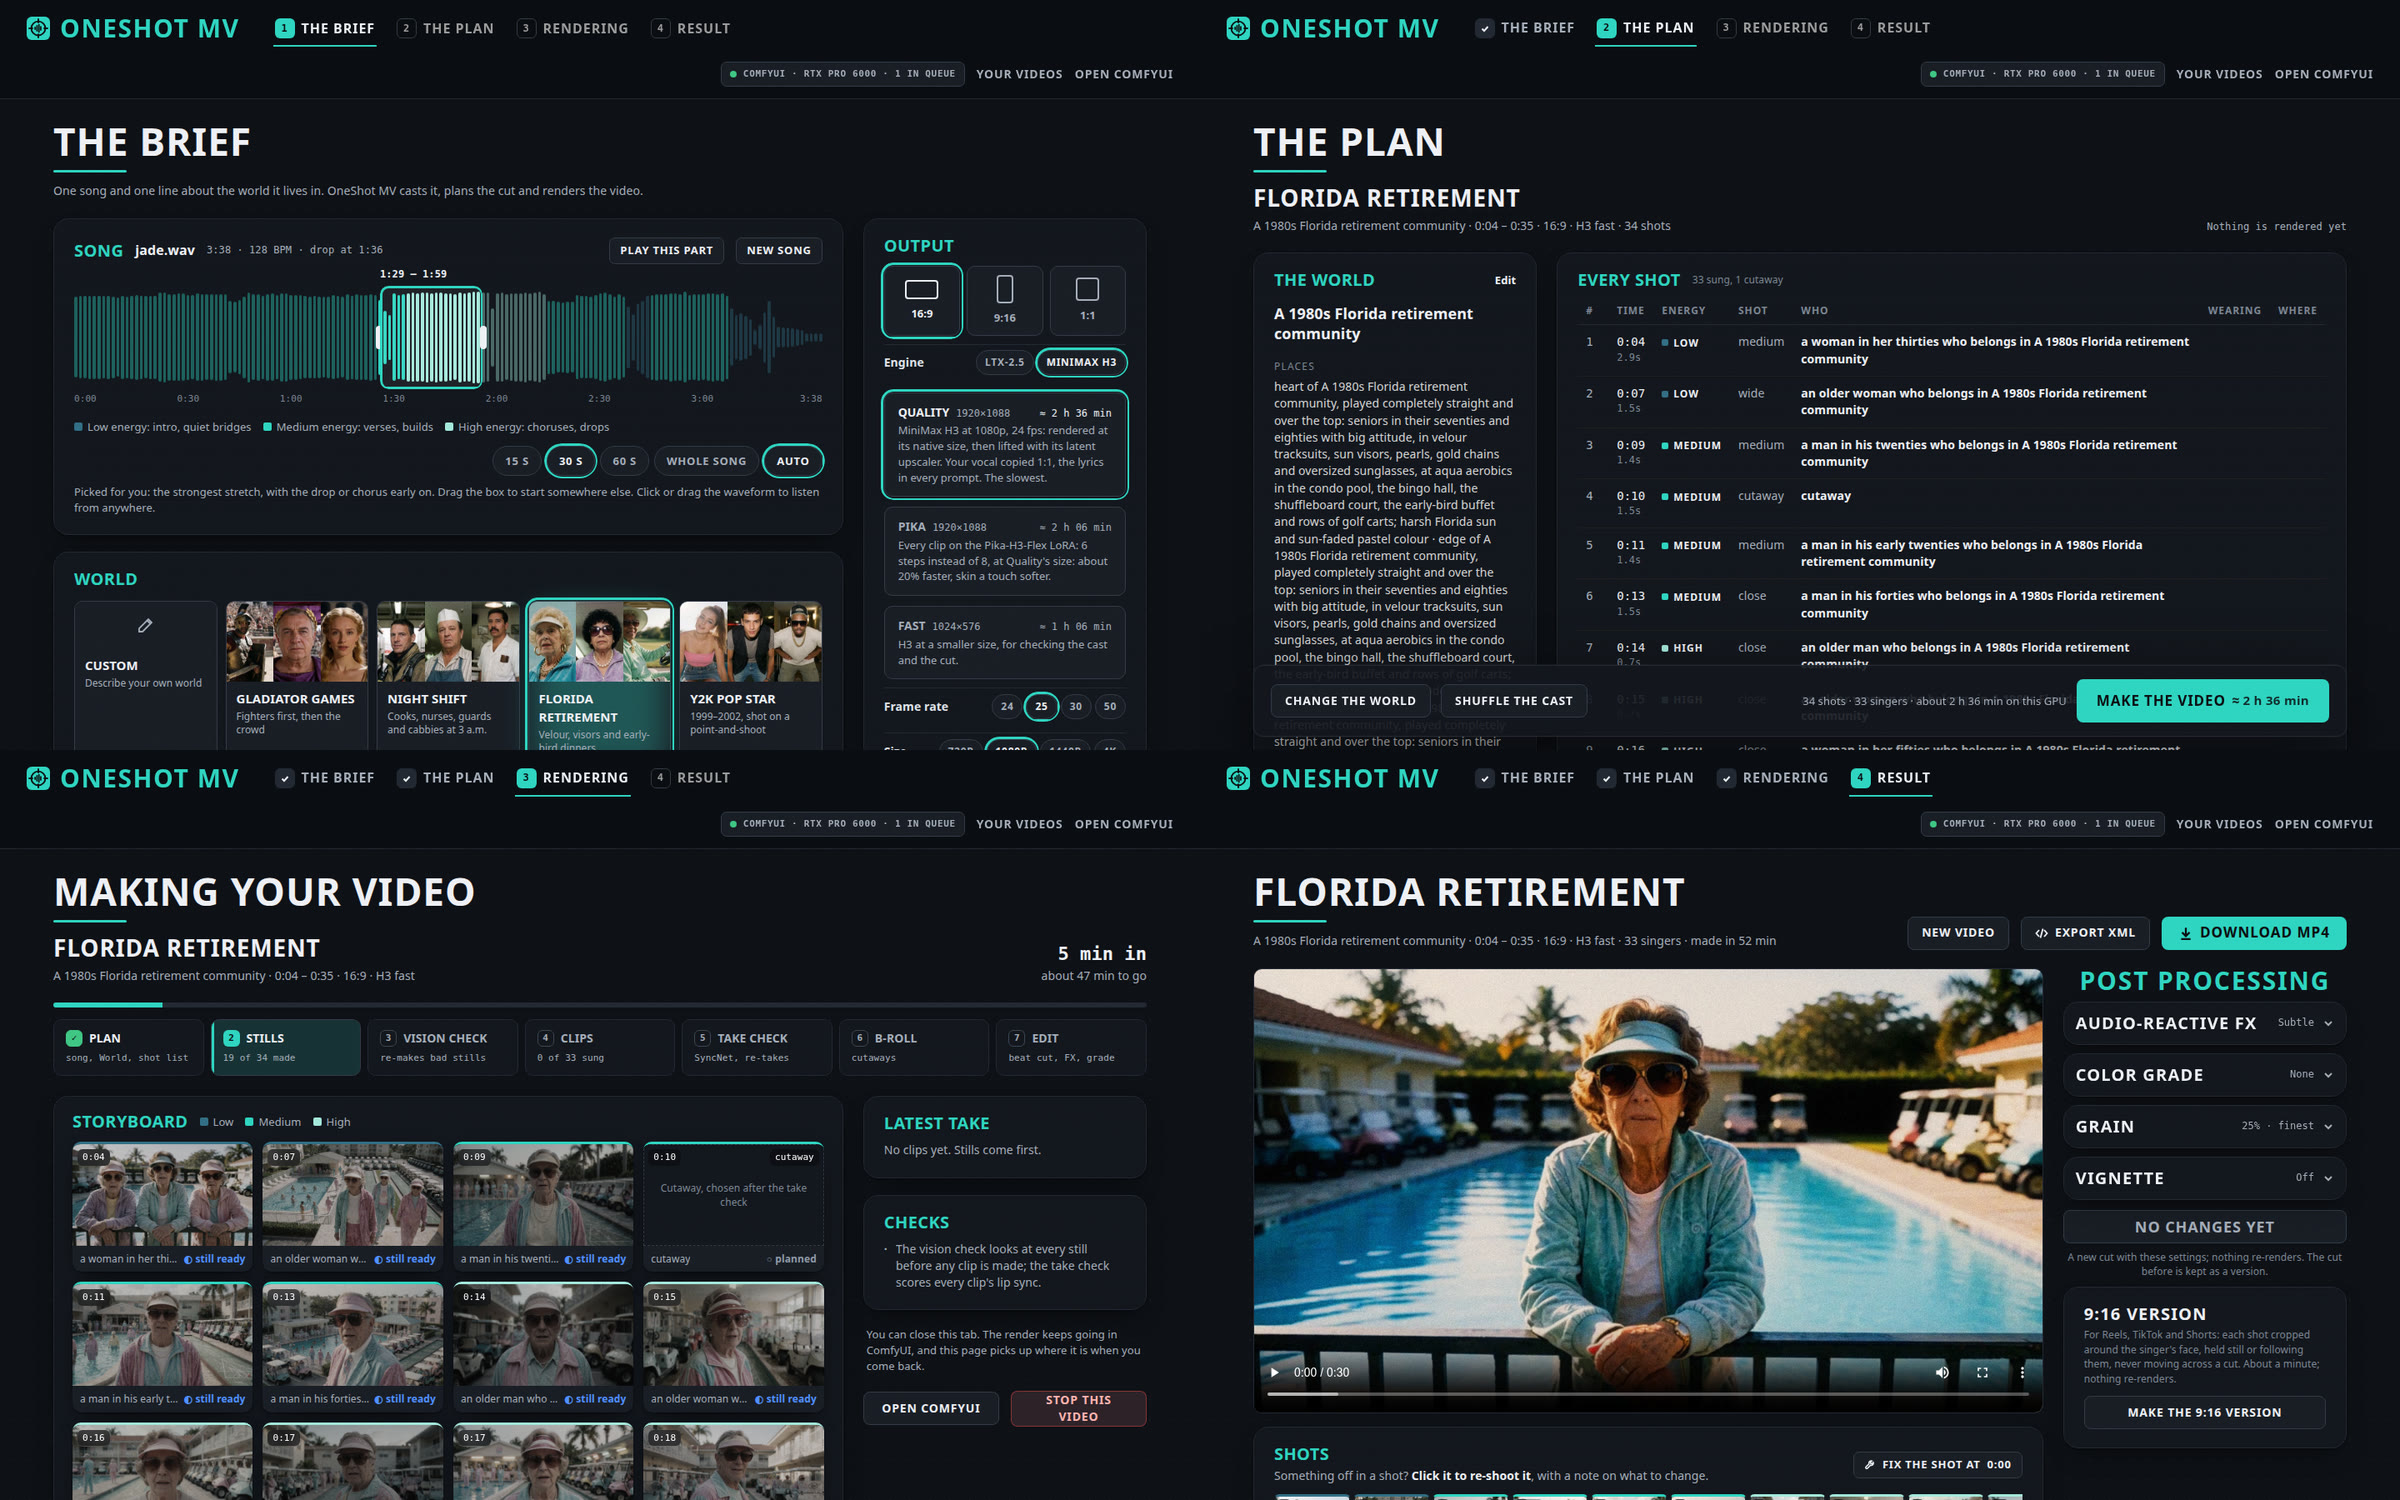
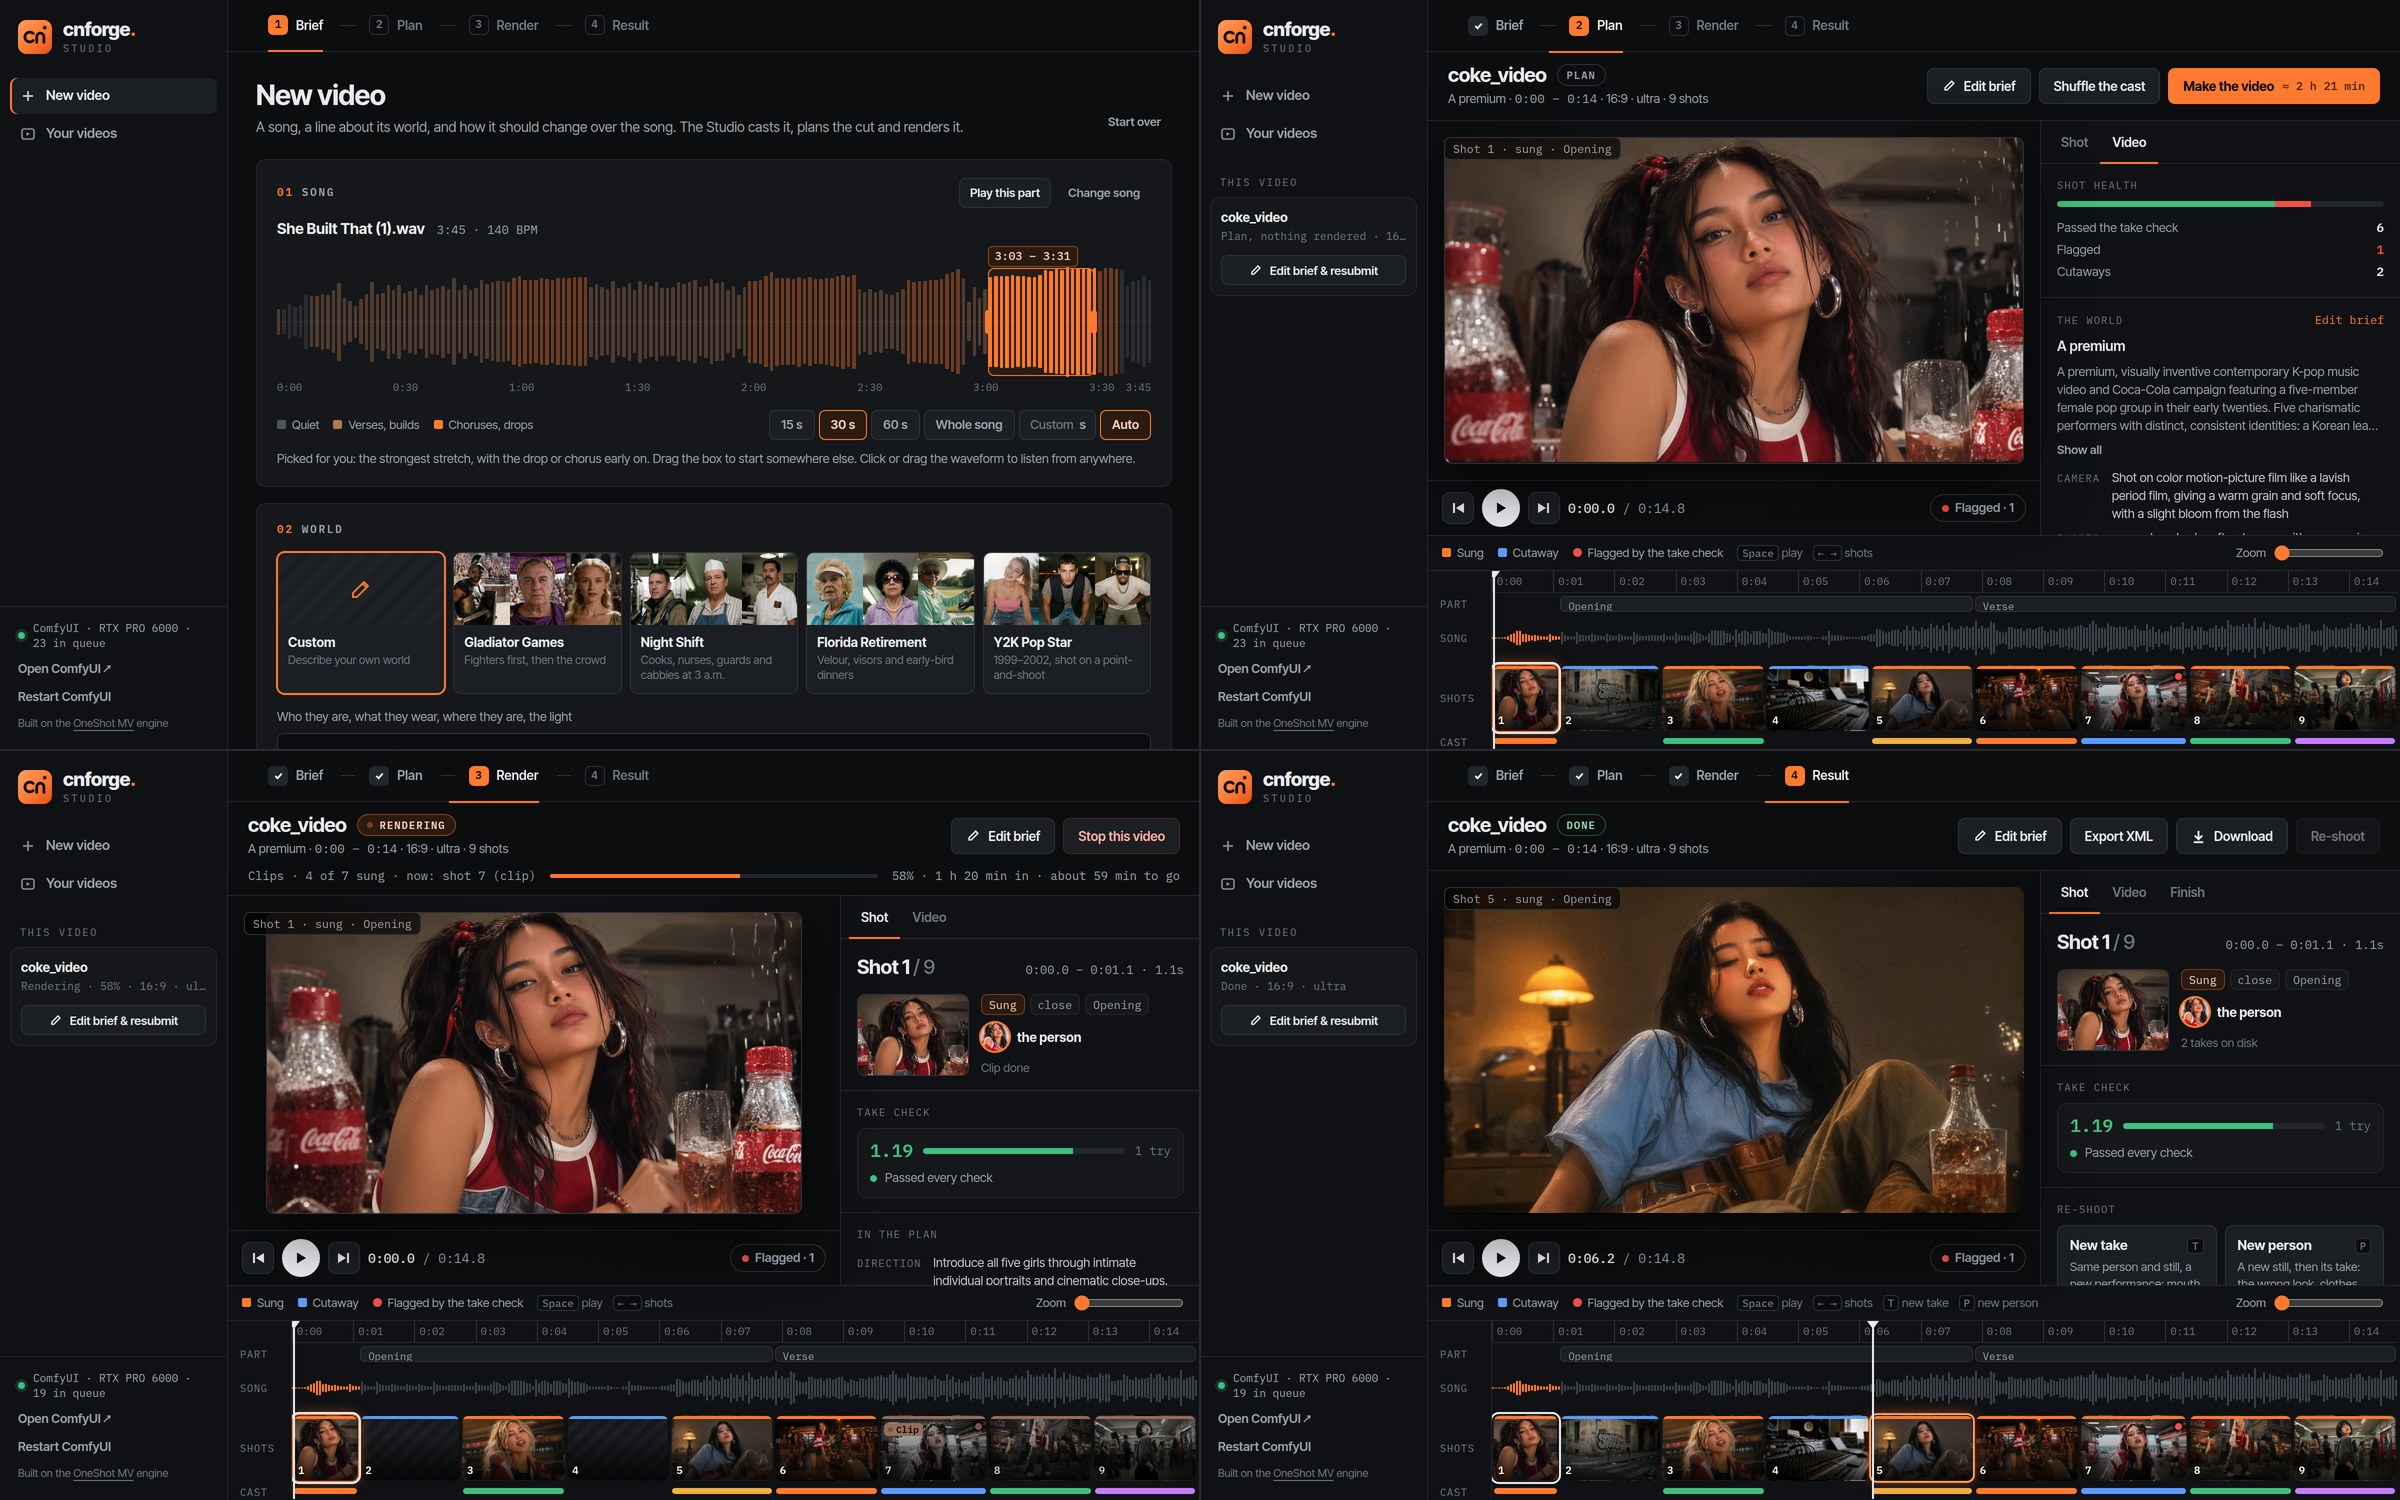
Update the README screenshots and the Studio's time estimates
- New Studio screenshots: the Brief, Plan, Render and Result of one Ultra video, and the Output
  card's LTX-2.5 tiers with Ultra.
- README: the custom length, the shot rendering now on the timeline, and Restart ComfyUI.
- Time estimates measured on an RTX PRO 6000 (minutes per second of song): Quality 0.6, Max 2.2,
  Ultra 7.8, Fast 0.25; Max had been estimated slower than Ultra. A whole Ultra video is about
  3.5x Max's time (6x per clip).
- Demo mode's simulated render marks the shot being made.

diff --git a/studio/index.html b/studio/index.html
@@ -631,6 +631,8 @@ function demoRun(r){
   });
   const nNotes = cur < ids.indexOf("check") ? 0 : Math.ceil(r.notes.length * Math.min(1, (f * 100 - 15) / 75));
   DM.left[run] = shots.filter(s => s.state !== "clip").length;
+  const next = shots.find(s => s.kind !== "broll" && s.state !== "clip");
+  r.now = next ? {what: next.state === "still" ? "clip" : "still", shots: [next.n]} : {};
   return Object.assign(r, {stage: ids[cur], video: "", stages, shots, pct: Math.min(99, Math.round(f * 100)), elapsed_min: f * total,
     left_min: Math.max(0, (1 - f) * total), latest, notes: r.notes.slice(0, nNotes), stalled: !!DM.stop[run], queued_jobs: DM.stop[run] ? 0 : 1});
 }
@@ -676,7 +678,7 @@ const gpuName = g => String(g || "").replace(/^NVIDIA\s+/i, "").replace(/\s+(Bla
 const dur = s => { s = Math.max(0, Math.round(s)); if (s < 90) return s + " s"; const m = Math.round(s / 60); return mins(m); };
 // minutes for the run: H3 is a bigger model, and its clips are at least 4.5 s each
 function estimate(b){ const sec = +b.seconds > 0 ? +b.seconds : (S.analysis ? S.analysis.duration : 30);
-  const per = b.engine === "h3" ? ({fast: 2, pika: 4}[b.preset] || 5) : ({ultra: 9, max: 10, quality: 2.5}[b.preset] || 1);
+  const per = b.engine === "h3" ? ({fast: 2, pika: 4}[b.preset] || 5) : ({ultra: 7.8, max: 2.2, quality: 0.6, fast: 0.25}[b.preset] || 1);
   const refine = b.refine && b.engine !== "h3" && b.preset !== "fast" ? REFINE_PER_S : 0;
   return 6 + (per + refine) * sec; }
 // minutes of Refine-Details pass per second of video: 81 s for a 65-frame 1152x1920 clip, and a cut renders
@@ -938,7 +940,7 @@ async function viewBrief(){
       ? [["quality","Quality",rs.quality[f],"MiniMax H3 at 1080p, 24 fps: rendered at its native size, then lifted with its latent upscaler. Your vocal copied 1:1, the lyrics in every prompt. The slowest."],
          ["pika","Pika",rs.quality[f],"Every clip on the Pika-H3-Flex LoRA: 6 steps instead of 8, at Quality's size: about 20% faster, skin a touch softer."],
          ["fast","Fast",rs.fast[f],"H3 at a smaller size, for checking the cast and the cut."]]
-      : [["ultra","Ultra",rs.ultra[f],"Max with LTX's own dev guidance (STG), 40 steps and a third more pixels: the singer stays in frame, with finer skin and hair. About 6× Max's time; for a final render on a big GPU."],
+      : [["ultra","Ultra",rs.ultra[f],"Max with LTX's own dev guidance (STG), 40 steps and a third more pixels: the singer stays in frame, with finer skin and hair. About 3½× Max's time; for a final render on a big GPU."],
          ["max","Max",rs.max[f],"LTX-2.5's full dev model at 1080p: cleaner faces and motion, about 4× Quality's time. For the final render."],
          ["quality","Quality",rs.quality[f],"LTX-2.5 at 1080p, 25 fps clips lip-synced to your vocal."],
          ["fast","Fast",rs.fast[f],"LTX-2.5 at a smaller size, for checking the cast and the cut."]];

diff --git a/fv/studio.py b/fv/studio.py
@@ -288,7 +288,7 @@ def _estimate(b: dict) -> dict:
     total = sum(x["s"] for x in parts)
     return {"total_s": int(total), "parts": parts, "shots": len(p["shots"]), "need": need,
             "world_cached": bool(bible) and have >= need, "window": [round(p["song_t0"], 2), round(p["song_t1"], 2)],
-            "render_min": round(6 + {"ultra": 9.0, "max": 10.0, "quality": 2.5}.get(b.get("preset", "quality"), 1.0) * win)}
+            "render_min": round(6 + {"ultra": 7.8, "max": 2.2, "quality": 0.6, "fast": 0.25}.get(b.get("preset", "quality"), 1.0) * win)}
 
 
 def _project(d: str) -> str:
@@ -638,7 +638,7 @@ def _kept_qc(r: dict) -> dict | None:
 
 def _estimate_min(p: dict) -> float:
     dur = float(p.get("duration") or 30)
-    per = {"ultra": 9.0, "max": 10.0, "quality": 2.5, "h3": 5.0, "h3_fast": 2.0, "h3_pika": 4.0}.get(p.get("preset"), 1.0)
+    per = {"ultra": 7.8, "max": 2.2, "quality": 0.6, "fast": 0.25, "h3": 5.0, "h3_fast": 2.0, "h3_pika": 4.0}.get(p.get("preset"), 1.0)
     if p.get("refine"):
         per += REFINE_PER_S
     return 6 + per * dur

diff --git a/README.md b/README.md
@@ -47,9 +47,11 @@ All three drive the same nodes, and every run shows up in the Studio under Your 
 
 With ComfyUI running, open http://127.0.0.1:8188/oneshot-mv/ or click **cnforge Studio** in
 ComfyUI's top bar. ComfyUI serves the page itself, so there is nothing else to install. The
-sidebar holds New video, Your videos, the video you're on and the GPU and queue.
+sidebar holds New video, Your videos, the video you're on, the GPU and queue, and **Restart
+ComfyUI** (it asks first, and warns when jobs are queued: a restart stops the running job and drops
+the waiting ones; the page reloads once ComfyUI is back).
 
-![The Studio: the Brief and a video's workspace](media/studio_screens.jpg)
+![The Studio's four steps on one video: the Brief, the Plan, the render and the result](media/studio_screens.jpg)
 
 1. **The Brief.** Name the project, then drop in a song. The waveform shows the low, medium and
    high energy sections and the stretch the video will use: drag the box to move it, click or
@@ -57,7 +59,7 @@ sidebar holds New video, Your videos, the video you're on and the GPU and queue.
    to 8): every singer becomes one of them, taking turns shot by shot (a shot's quick looks stay
    that person), dressed and placed by the World (needs Qwen-Image 2.1 and FLUX.2 klein,
    see [the other models](#models-and-licences); use a photo of someone who agreed to it).
-   Pick a length, a World (four examples, or write your own), an optional
+   Pick a length (15, 30 or 60 s, the whole song, or any custom length from 5 s), a World (four examples, or write your own), an optional
    [Direction](#writing-a-direction) (how the video changes from the opening to the last chorus)
    and the output: format, engine
    (LTX-2.5 or MiniMax H3), quality (Ultra, Max, Quality or Fast on LTX-2.5; Quality, Pika or Fast on
@@ -84,7 +86,8 @@ sidebar holds New video, Your videos, the video you're on and the GPU and queue.
    - **Plan**: nothing has rendered. Shuffle the cast (plan again with the next seed) or Make
      the video.
    - **Rendering**: the stage, the progress and the time left; the shots fill in on the timeline
-     as stills and clips arrive. You can close the tab and come back, or stop the video.
+     as stills and clips arrive, and the shot being made right now glows with a tag saying what
+     it is (Still, Clip, New take or Refining). You can close the tab and come back, or stop the video.
    - **Done**: Download, and Export XML for Premiere Pro or DaVinci Resolve (every clip with its
      in and out points). From here you can:
      - Re-shoot shots. Pick one and choose New take (same person and still) or New person (a new
@@ -232,7 +235,7 @@ line per part of the song, the part, a colon, then the note:
 | Length and start | seconds (0 = the whole song); a start time, or auto | 30 s from the strongest stretch |
 | Format | 16:9 (1920×1080), 9:16 (1080×1920), 1:1 (1080×1080) | 16:9 |
 | Engine | ltx-2.5 (LTX-2.5 distilled, lip sync from the vocal), minimax-h3 (MiniMax H3 reference mode: the portrait, the vocal copied 1:1, the lyrics from Whisper; 24 fps, at least 4.5 s a clip; slower) | ltx-2.5 |
-| Quality | ultra (LTX-2.5 only: Max with STG guidance, 40 steps and 1536×2560 at 9:16, about 6× Max's time), max (LTX-2.5 only: Quality's size on the full dev model, about 4× Quality's time), quality (LTX-2.5: clips at 1920×1152 for 16:9, 25 fps; H3: 1920×1088, 24 fps), pika (H3 only: every clip on Pika-H3-Flex at Quality's size, about 20% faster), fast (LTX-2.5: 896×512; H3: 1024×576; for checking the cast and the cut) | quality |
+| Quality | ultra (LTX-2.5 only: Max with STG guidance, 40 steps and 1536×2560 at 9:16, about 3½× Max's time for a whole video), max (LTX-2.5 only: Quality's size on the full dev model, about 4× Quality's time), quality (LTX-2.5: clips at 1920×1152 for 16:9, 25 fps; H3: 1920×1088, 24 fps), pika (H3 only: every clip on Pika-H3-Flex at Quality's size, about 20% faster), fast (LTX-2.5: 896×512; H3: 1024×576; for checking the cast and the cut) | quality |
 | Cuts, per energy level | every 2 bars, every bar, to the music (subtle), to the music (intense) | low: every 2 bars; medium: every bar; high: to the music (subtle) |
 | Audio-reactive FX | none, subtle, intense (per energy level in the Studio) | subtle |
 | Refine details | off, on (LTX-2.5 at Quality, Max or Ultra: a Refine-Details IC-LoRA pass over every clip in the cut, see [Refine details](#refine-details)) | off |
@@ -272,7 +275,7 @@ Ultra is Max with three more things: stage 1 is guided the way LTX-2's own dev w
 upscale stage runs 8 steps instead of 3. Everything is a third bigger: 2560×1536 for 16:9,
 1536×2560 for 9:16. On four test shots, Max sometimes drifted off the singer to the people around
 them; Ultra kept the singer in frame every time, with finer skin, hair and jewellery. More steps alone,
-or STG alone, didn't do that (STG alone came out softer). It takes about 6× Max's time and needs
+or STG alone, didn't do that (STG alone came out softer). Each clip takes about 6× Max's time (a whole video about 3½×, as stills and checks take as long on every tier) and needs
 the same files as Max; it's meant for a GPU with lots of memory. Ultra's lips run further ahead of
 the voice than Max's (about 0.12 s), so its cut shifts them back by that much wherever SyncNet
 can't measure a take with confidence.
@@ -294,10 +297,10 @@ The Pika tier (H3 only) renders every clip on Pika-H3-Flex, singers too: 6 steps
 Quality's size. A 4.5 s singer clip took 133 s instead of 162 s on an RTX PRO 6000, with the same
 lip sync (SyncNet 5.5 vs 5.7) and slightly softer skin. It needs the two Pika files above.
 
-<img src="media/studio_quality.png" width="300" align="right" alt="The Brief's Output card on MiniMax H3: Quality, Pika and Fast, each with its render size and expected time">
+The Brief shows each tier's render size and a rough time for the chosen length (measured on an
+RTX PRO 6000), and lists any model files the choice needs that aren't installed.
 
-The Brief shows each tier's render size and a rough time for the chosen length, and lists any
-model files the choice needs that aren't installed.
+<img src="media/studio_quality.png" width="600" alt="The Brief's Output card on LTX-2.5: Ultra, Max, Quality and Fast, each with its render size and expected time for a 30 s video">
 
 Time for one 4.5 s clip on an RTX PRO 6000 (full set):
 
@@ -308,8 +311,6 @@ Time for one 4.5 s clip on an RTX PRO 6000 (full set):
 | LTX-2.5 Ultra | about 17 min |
 | MiniMax H3 Quality | about 2 min 40 s |
 | MiniMax H3 Pika | about 2 min 15 s |
-
-<br clear="right">
 
 "To the music" cuts on the beat to a new face in the same spot: about every half bar on subtle,
 about every beat on intense.
